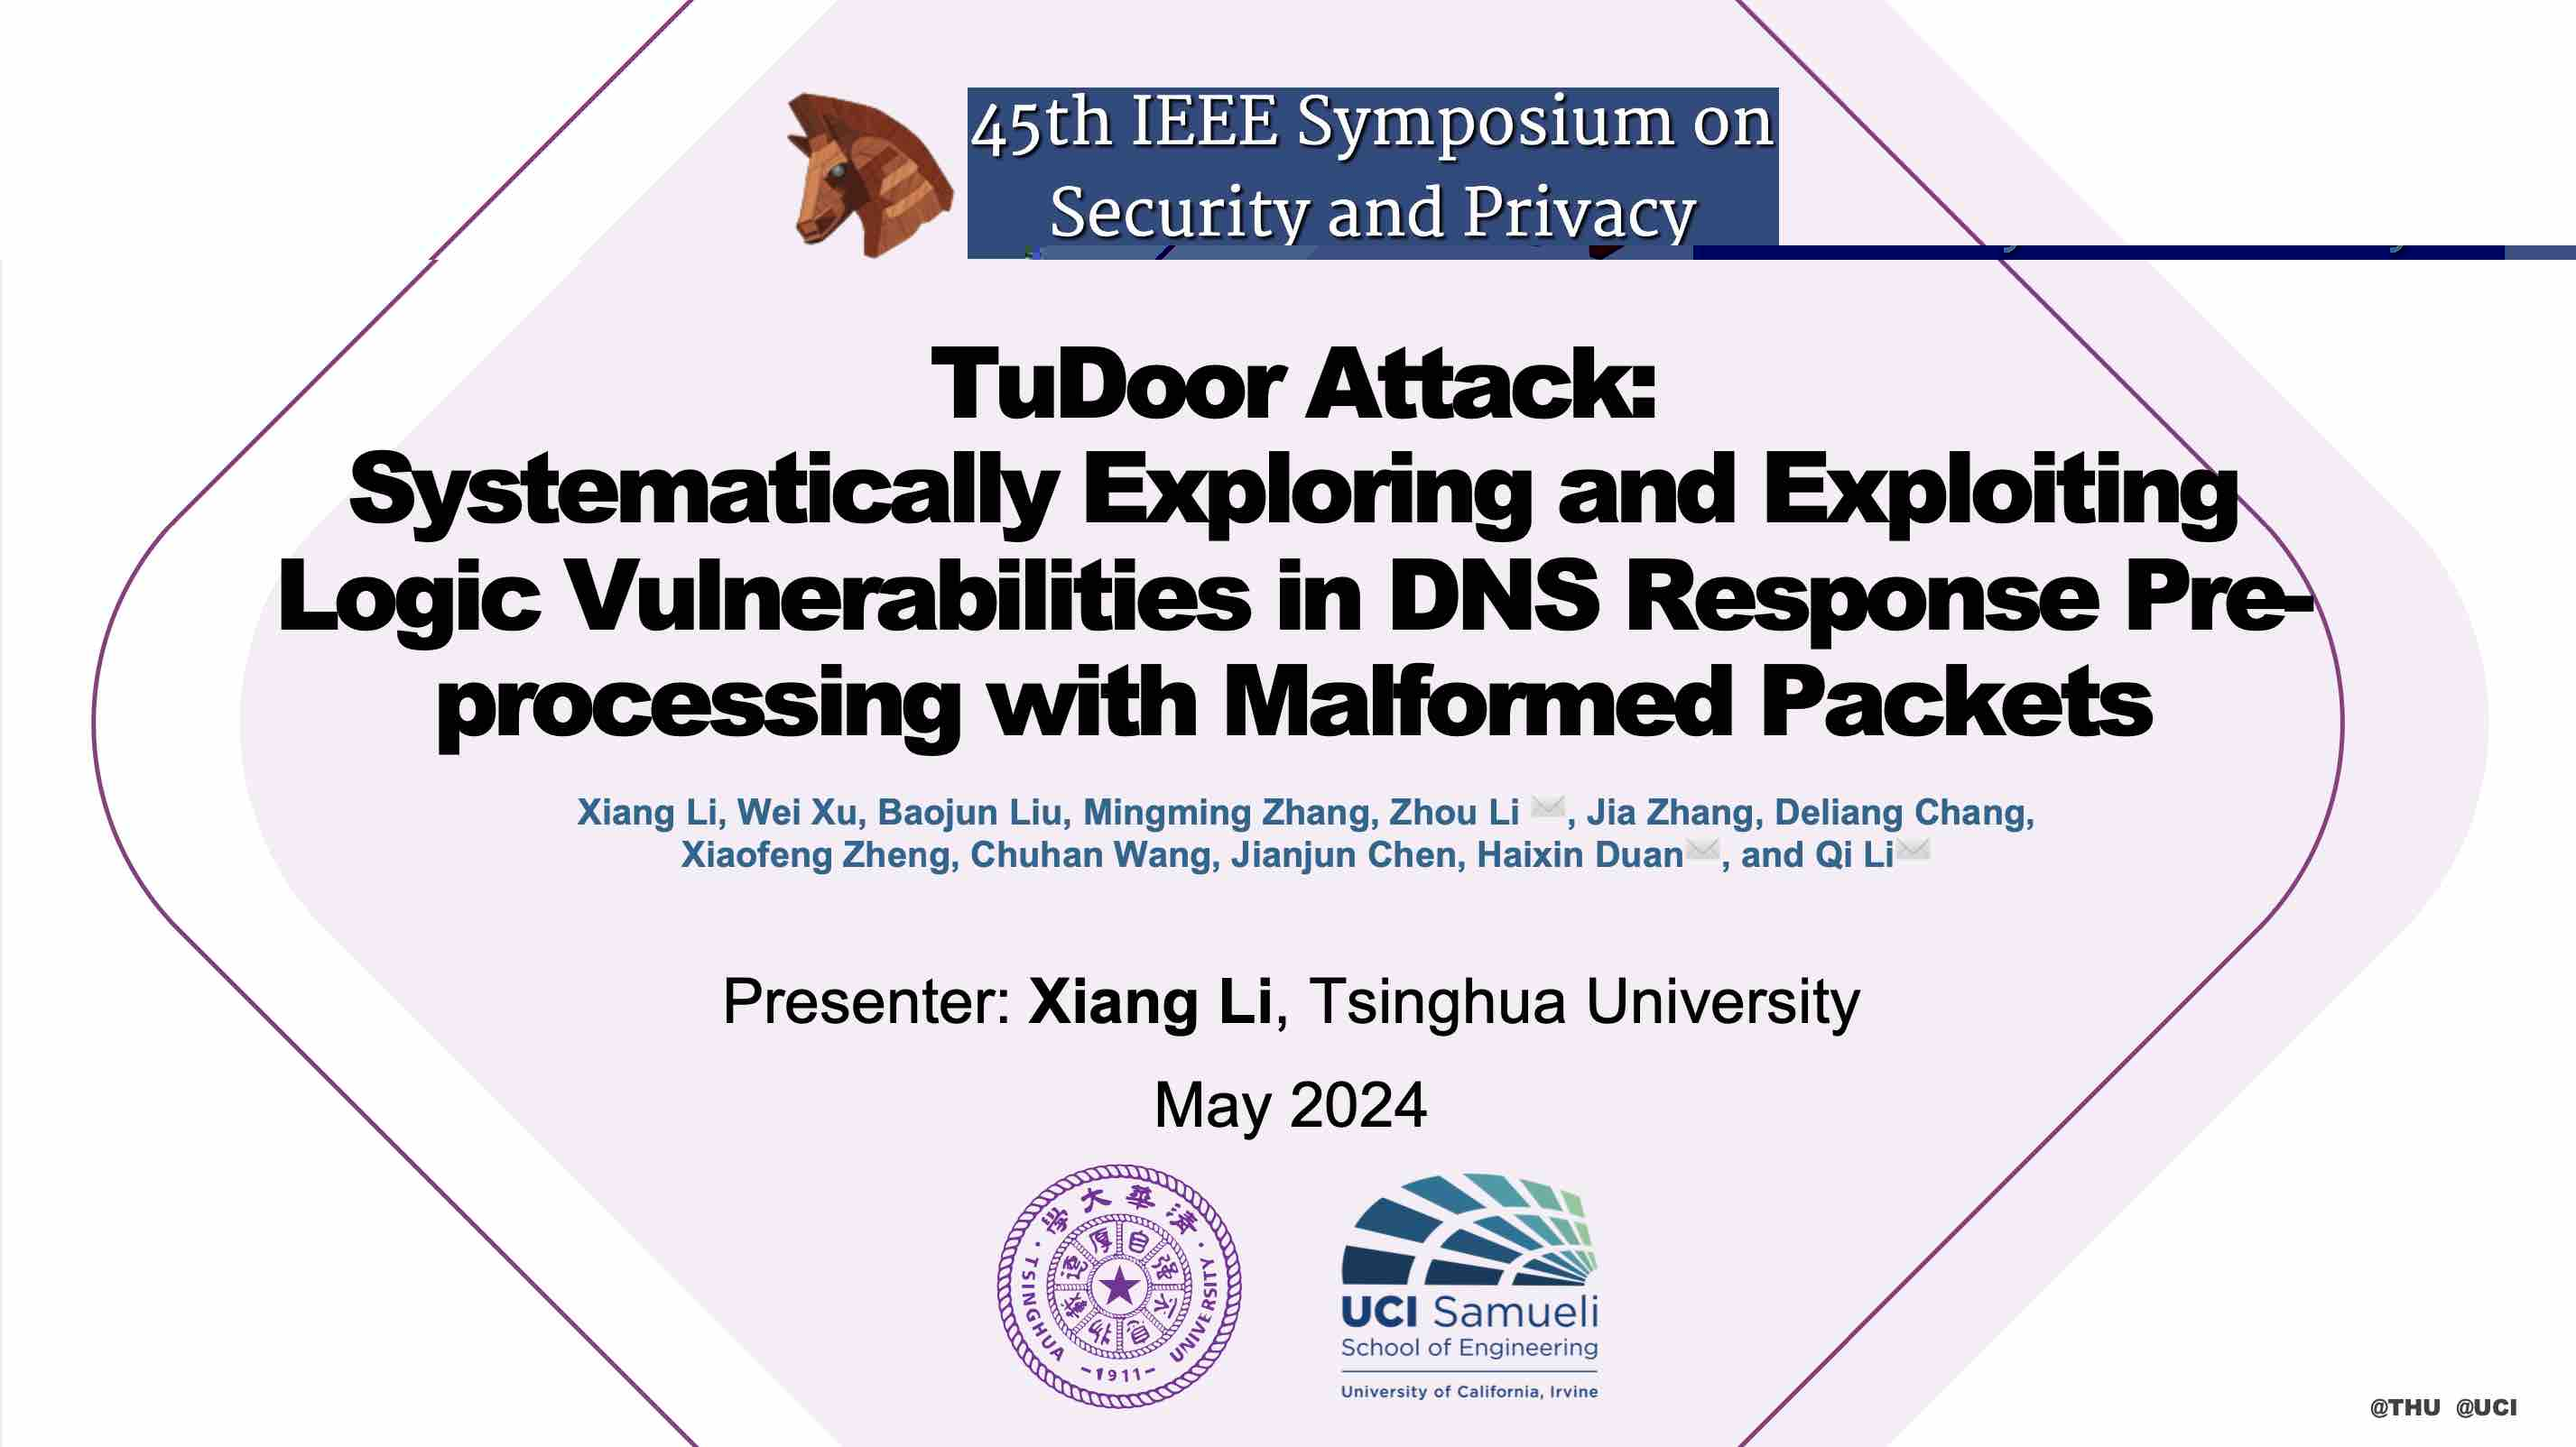
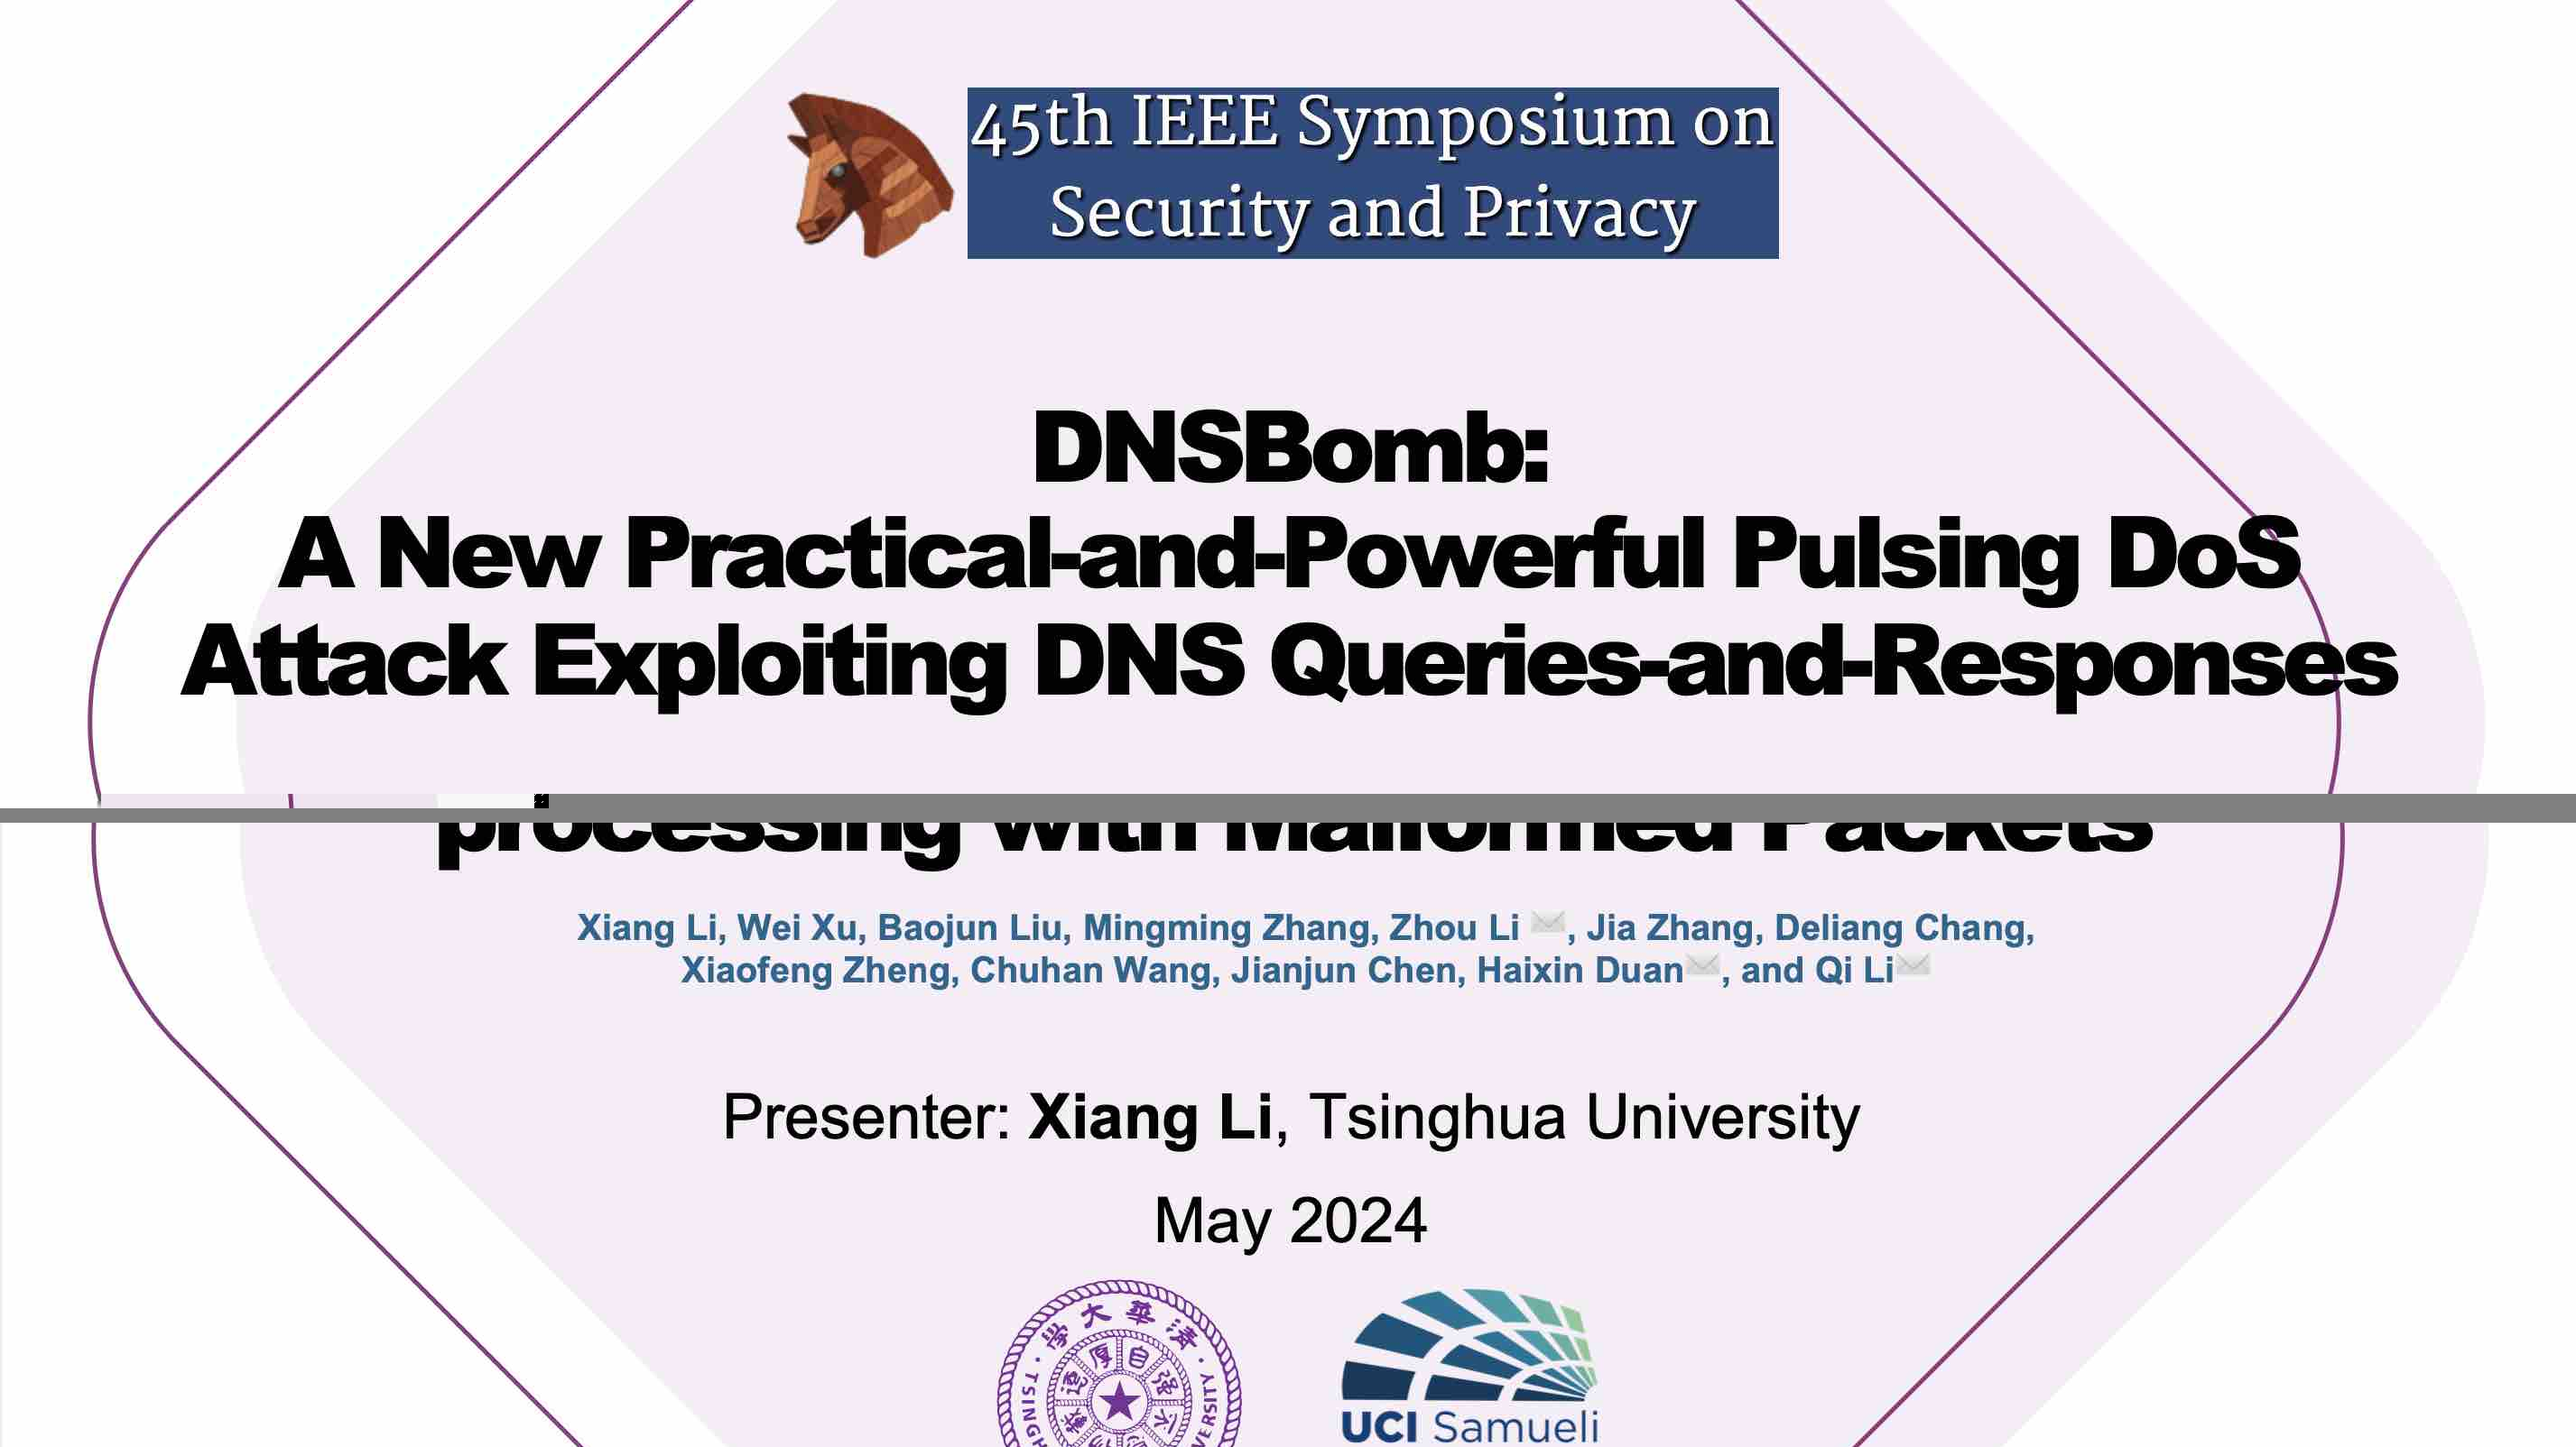
update email

diff --git a/talk/45th-ieee-symposium-on-security-and-privacy-2024-ieee-sp-2024/index.html b/talk/45th-ieee-symposium-on-security-and-privacy-2024-ieee-sp-2024/index.html
@@ -272,7 +272,7 @@
 
   
 
-<meta name="description" content="In [45th IEEE Symposium on Security and Privacy 2024](https://sp2024.ieee-security.org/index.html), Fenglu presented our novel TuDoor attack on behalf of me cause I couldn&#39;t make it there." />
+<meta name="description" content="In [45th IEEE Symposium on Security and Privacy 2024](https://sp2024.ieee-security.org/index.html), Fenglu presented our novel DNSBomb attack on behalf of me cause I couldn&#39;t make it there." />
 
 
 
@@ -316,7 +316,7 @@
 <meta property="og:site_name" content="Xiang Li | 李想" />
 <meta property="og:url" content="https://lixiang521.com/talk/45th-ieee-symposium-on-security-and-privacy-2024-ieee-sp-2024/" />
 <meta property="og:title" content="45th IEEE Symposium on Security and Privacy 2024 | IEEE S&amp;P 2024 | Xiang Li | 李想" />
-<meta property="og:description" content="In [45th IEEE Symposium on Security and Privacy 2024](https://sp2024.ieee-security.org/index.html), Fenglu presented our novel TuDoor attack on behalf of me cause I couldn&#39;t make it there." /><meta property="og:image" content="https://lixiang521.com/talk/45th-ieee-symposium-on-security-and-privacy-2024-ieee-sp-2024/featured.jpg" /><meta property="og:locale" content="en-us" />
+<meta property="og:description" content="In [45th IEEE Symposium on Security and Privacy 2024](https://sp2024.ieee-security.org/index.html), Fenglu presented our novel DNSBomb attack on behalf of me cause I couldn&#39;t make it there." /><meta property="og:image" content="https://lixiang521.com/talk/45th-ieee-symposium-on-security-and-privacy-2024-ieee-sp-2024/featured.jpg" /><meta property="og:locale" content="en-us" />
 
   
     <meta
@@ -379,7 +379,7 @@
     "name": "Fenglu Zhang"
   },
   
-  "description": "In [45th IEEE Symposium on Security and Privacy 2024](https://sp2024.ieee-security.org/index.html), Fenglu presented our novel TuDoor attack on behalf of me cause I couldn't make it there."
+  "description": "In [45th IEEE Symposium on Security and Privacy 2024](https://sp2024.ieee-security.org/index.html), Fenglu presented our novel DNSBomb attack on behalf of me cause I couldn't make it there."
 }
 </script>
 
@@ -419,7 +419,7 @@
 </head>
 
 
-<body id="top" data-spy="scroll" data-offset="70" data-target="#TableOfContents" class="page-wrapper   " data-wc-page-id="e05079f5c464b403ce018a56a32de18e" >
+<body id="top" data-spy="scroll" data-offset="70" data-target="#TableOfContents" class="page-wrapper   " data-wc-page-id="06ce02b55c8dddf7d39f9a7a09b5051d" >
 
   
   
@@ -947,7 +947,7 @@
 
 
 
-<a class="btn btn-outline-primary btn-page-header" href="/publication/oakland24/sp24spring-tudoor-li.pdf" target="_blank" rel="noopener">
+<a class="btn btn-outline-primary btn-page-header" href="/publication/oakland24/sp24spring-dnsbomb-li.pdf" target="_blank" rel="noopener">
   PDF
 </a>
 
@@ -963,7 +963,7 @@
   
     
   
-<a class="btn btn-outline-primary btn-page-header" href="/publication/oakland24/sp2024-tudoor-poster.pdf" target="_blank" rel="noopener">
+<a class="btn btn-outline-primary btn-page-header" href="/publication/oakland24/sp2024-dnsbomb-poster.pdf" target="_blank" rel="noopener">
   Poster
 </a>
 
@@ -973,7 +973,7 @@
   
     
   
-<a class="btn btn-outline-primary btn-page-header" href="/publication/oakland24/sp2024-tudoor-slides.pdf" target="_blank" rel="noopener">
+<a class="btn btn-outline-primary btn-page-header" href="/publication/oakland24/sp2024-dnsbomb-slides.pdf" target="_blank" rel="noopener">
   Slides
 </a>
 
@@ -1003,9 +1003,9 @@
 </div>
 
 
-<div class="article-header article-container featured-image-wrapper mt-4 mb-4" style="max-width: 720px; max-height: 404px;">
+<div class="article-header article-container featured-image-wrapper mt-4 mb-4" style="max-width: 720px; max-height: 405px;">
   <div style="position: relative">
-    <img src="/talk/45th-ieee-symposium-on-security-and-privacy-2024-ieee-sp-2024/featured_huc82d7b839fc53b7a5c86bd3cdfedcac6_184831_720x2500_fit_q75_h2_lanczos.webp" width="720" height="404" alt="" class="featured-image">
+    <img src="/talk/45th-ieee-symposium-on-security-and-privacy-2024-ieee-sp-2024/featured_huc82d7b839fc53b7a5c86bd3cdfedcac6_161243_720x2500_fit_q75_h2_lanczos.webp" width="720" height="405" alt="" class="featured-image">
     
   </div>
 </div>
@@ -1016,7 +1016,7 @@
 
     
       <h3>Abstract</h3>
-      <p class="pub-abstract">DNS can be compared to a game of chess in that its rules are simple, yet the possibilities it presents are endless. While the fundamental rules of DNS are straightforward, DNS implementations can be extremely complex. In this study, we intend to explore the complexities and vulnerabilities in DNS response pre-processing by systematically analyzing DNS RFCs and DNS software implementations. We present the discovery of three new types of logic vulnerabilities, leading to the proposal of three novel attacks, namely the TuDoor attack. These attacks involve the use of malformed DNS response packets to carry out DNS cache poisoning, denial-of-service, and resource consuming attacks. By performing comprehensive experiments, we demonstrate the attack&rsquo;s feasibility and significant real-world impacts of TuDoor. In total, 24 mainstream DNS software, including BIND, PowerDNS, and Microsoft DNS, are affected by TuDoor. Attackers can instigate cache poisoning and denial-of-service attacks against vulnerable resolvers using a handful of crafted packets within 1 second or circumvent the query limit to deplete resolution resources (e.g., CPU). Besides, to determine the vulnerable resolver population in the wild, we collect and evaluate 16 popular Wi-Fi routers, 6 prevalent router OSes, 42 public DNS services, and around 1.8M open DNS resolvers. Our measurement results indicate that TuDoor could exploit 7 routers (OSes), 18 public DNS services, and 424,652 (23.1%) open DNS resolvers. Following the best practice of responsible disclosure, we have reported these vulnerabilities to all affected vendors, and 18 of them, including BIND, Chrome, Cloudflare, and Microsoft, have acknowledged our findings and discussed mitigation solutions with us. Furthermore, 33 CVE IDs are assigned to our discovered vulnerabilities, and we provide an online detection tool as one of the mitigation measures. Our research highlights the urgent need for standardization of DNS response pre-processing logic to enhance the security of DNS.</p>
+      <p class="pub-abstract">DNS employs a variety of mechanisms to guarantee availability, protect security, and enhance reliability. In this paper, however, we reveal that these inherent beneficial mechanisms, including timeout, query aggregation, and response fast-returning, can be transformed into malicious attack vectors. We propose a new practical and powerful pulsing DoS attack, dubbed the DNSBomb attack. DNSBomb exploits multiple widely-implemented DNS mechanisms to accumulate DNS queries that are sent at a low rate, amplify queries into large-sized responses, and concentrate all DNS responses into a short, high-volume periodic pulsing burst to simultaneously overwhelm target systems. Through an extensive evaluation on 10 mainstream DNS software, 46 public DNS services, and around 1.8M open DNS resolvers, we demonstrate all DNS resolvers could be exploited to conduct more practical-and-powerful DNSBomb attacks than previous pulsing DoS atttacks. Small-scale experiments show the peak pulse magnitude can approach 8.7Gb/s and the bandwidth amplification factor could exceed 20,000x. Our controlled attacks cause complete packet loss or service degradation on both stateless and stateful connections (TCP, UDP, and QUIC). In addition, we present effective mitigation solutions with detailed evaluations. We have responsibly reported our findings to all affected vendors, and received acknowledgement from 24 of them, which are patching their software using our solutions, such as BIND, Unbound, PowerDNS, and Knot. 10 CVE-IDs are assigned.</p>
     
 
     <div class="row">
@@ -1072,7 +1072,7 @@
     <div class="space-below"></div>
 
     <div class="article-style">
-      <p>In <a href="https://sp2024.ieee-security.org/index.html" target="_blank" rel="noopener">45th IEEE Symposium on Security and Privacy 2024</a>, Fenglu presented our novel TuDoor attack on behalf of me cause I couldn&rsquo;t make it there.</p>
+      <p>In <a href="https://sp2024.ieee-security.org/index.html" target="_blank" rel="noopener">45th IEEE Symposium on Security and Privacy 2024</a>, Fenglu presented our novel DNSBomb attack on behalf of me cause I couldn&rsquo;t make it there.</p>
 <h3 id="feedback-from-the-site">Feedback from the site</h3>
 <p>impressive! unbelievable! amazing!</p>
 

diff --git a/index.html b/index.html
@@ -7019,7 +7019,7 @@
     
     <li>
       <i class="fa-li fas fa-envelope fa-2x" aria-hidden="true"></i>
-      <span id="person-email"><a href="mailto:xxx%20[AT]%20nankai%20dot%20edu%20dot%20cn">xxx [AT] nankai dot edu dot cn</a></span>
+      <span id="person-email"><a href="mailto:lixiang%20[AT]%20nankai%20dot%20edu%20dot%20cn">lixiang [AT] nankai dot edu dot cn</a></span>
     </li>
     
 

diff --git a/zh/index.html b/zh/index.html
@@ -7015,7 +7015,7 @@
     
     <li>
       <i class="fa-li fas fa-envelope fa-2x" aria-hidden="true"></i>
-      <span id="person-email"><a href="mailto:xxx%20[AT]%20nankai%20dot%20edu%20dot%20cn">xxx [AT] nankai dot edu dot cn</a></span>
+      <span id="person-email"><a href="mailto:lixiang%20[AT]%20nankai%20dot%20edu%20dot%20cn">lixiang [AT] nankai dot edu dot cn</a></span>
     </li>
     
 
